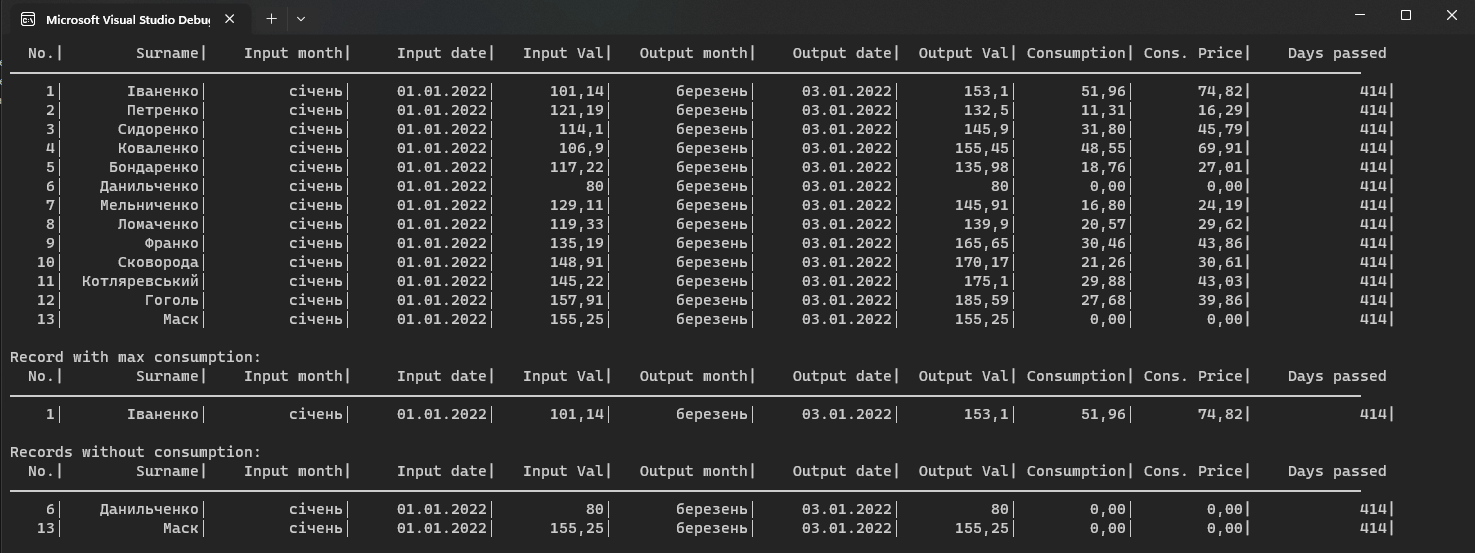
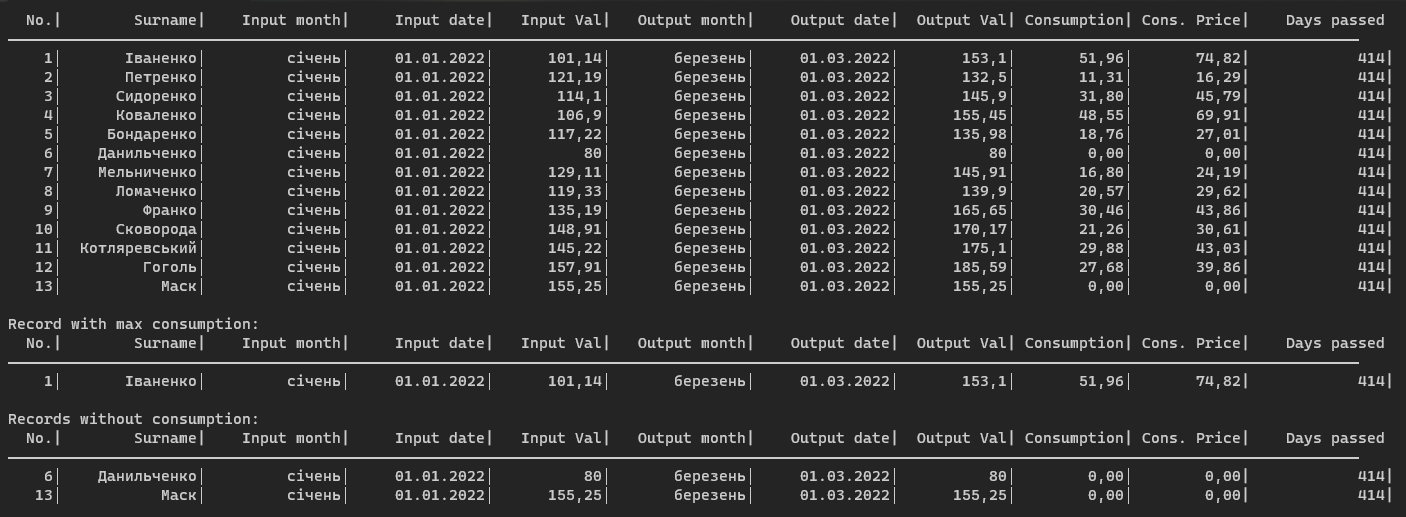
output fix, picture changed

diff --git a/Home_task_4/Exercise_3/RecordsStorageConsoleViewer.cs b/Home_task_4/Exercise_3/RecordsStorageConsoleViewer.cs
@@ -75,8 +75,8 @@ namespace Exercise_3
         private static void PrintRecord(Record record, float price)
         {
             Console.WriteLine($"{record.Number,SHORT_INDENTATION}│{record.Surname,LONG_INDENTATION}│{record.InputDate.ToString("MMMM"),LONG_INDENTATION}│" +
-                 $"{record.InputDate.ToString("MM.dd.yyyy"),LONG_INDENTATION}│{record.InputReading,MIDDLE_INDENTATION}│{record.OutputDate.ToString("MMMM"),LONG_INDENTATION}│" +
-                 $"{record.OutputDate.ToString("MM.dd.yyyy"),LONG_INDENTATION}│{record.OutputReading,MIDDLE_INDENTATION}│{(record.OutputReading - record.InputReading),MIDDLE_INDENTATION:F2}│" +
+                 $"{record.InputDate.ToString("dd.MM.yyyy"),LONG_INDENTATION}│{record.InputReading,MIDDLE_INDENTATION}│{record.OutputDate.ToString("MMMM"),LONG_INDENTATION}│" +
+                 $"{record.OutputDate.ToString("dd.MM.yyyy"),LONG_INDENTATION}│{record.OutputReading,MIDDLE_INDENTATION}│{(record.OutputReading - record.InputReading),MIDDLE_INDENTATION:F2}│" +
                  $"{(record.OutputReading - record.InputReading) * price, MIDDLE_INDENTATION:F2}|{(DateTime.Now-record.OutputDate).TotalDays,LONG_INDENTATION:F0}|");
         }
     }
